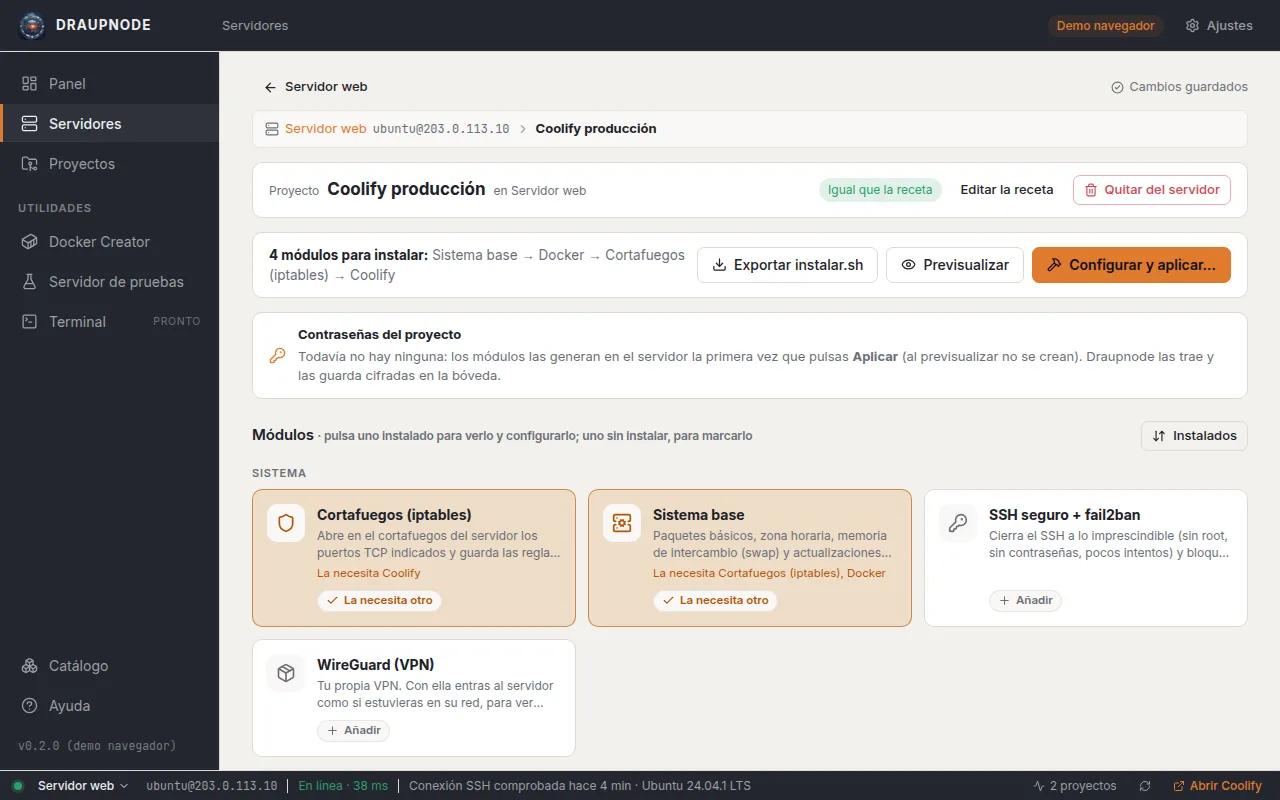
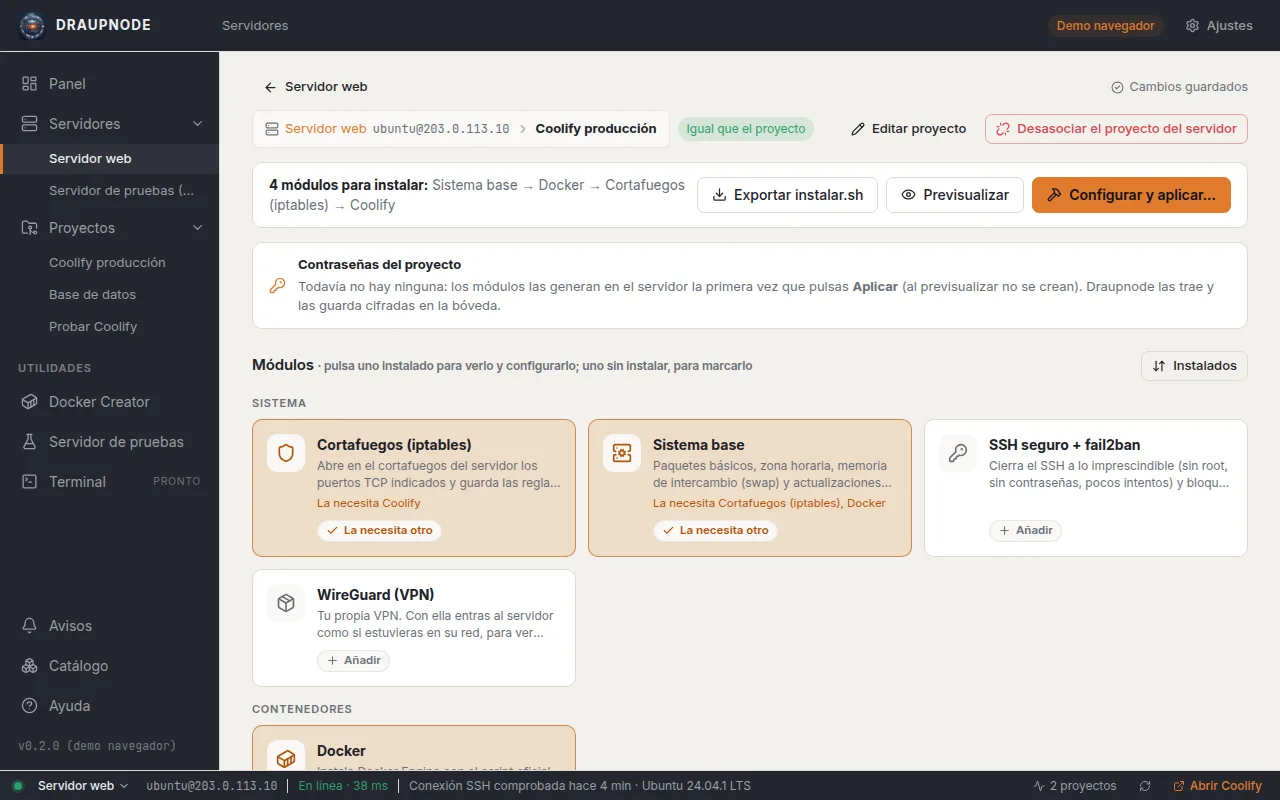
Proyecto en un servidor: cabecera en una fila, «Editar proyecto» y «Desasociar el proyecto del servidor» (0.37.1)

diff --git a/frontend/src/views/ProjectEditor.svelte b/frontend/src/views/ProjectEditor.svelte
@@ -1,6 +1,6 @@
 <script lang="ts">
   import { untrack } from 'svelte'
-  import { ArrowLeft, Save, Eye, Hammer, Download, Trash2, TriangleAlert, LoaderCircle, CircleCheck, CircleX, ChevronRight, Server as ServerIcon, ArrowDownUp } from '@lucide/svelte'
+  import { ArrowLeft, Save, Eye, Hammer, Download, Trash2, TriangleAlert, LoaderCircle, CircleCheck, CircleX, ChevronRight, Server as ServerIcon, ArrowDownUp, Unlink, Pencil } from '@lucide/svelte'
   import RunPanel from '../components/RunPanel.svelte'
   import ProjectSecrets from '../components/ProjectSecrets.svelte'
   import UninstallDialog from '../components/UninstallDialog.svelte'
@@ -335,18 +335,18 @@
 
   async function remove() {
     const ok = await confirmDialog({
-      title: draft.recipeId ? 'Quitar del servidor' : 'Eliminar proyecto',
+      title: draft.recipeId ? 'Desasociar el proyecto del servidor' : 'Eliminar proyecto',
       message: draft.recipeId
-        ? `¿Quitar «${draft.name}» de ${server?.name}? Se borra de Draupnode (con sus registros y sus contraseñas guardadas); lo instalado en el servidor NO se toca (para eso, desinstala antes sus módulos). La receta se conserva.`
+        ? `¿Desasociar «${draft.name}» de ${server?.name}? NO desinstala nada: lo instalado sigue funcionando en el servidor (para quitarlo, desinstala antes sus módulos). Draupnode deja de gestionarlo y borra sus registros y sus contraseñas guardadas. El proyecto se conserva y puedes volver a asociarlo.`
         : `¿Eliminar «${draft.name}»? Solo se borra de Draupnode (y sus registros); el servidor no se toca.`,
-      confirmLabel: draft.recipeId ? 'Quitar' : 'Eliminar', danger: true,
+      confirmLabel: draft.recipeId ? 'Desasociar' : 'Eliminar', danger: true,
     })
     if (!ok) return
     try {
       await api.DeleteProject(draft.id)
       await refreshProjects()
       ui.projectId = null
-      toast(draft.recipeId ? 'Quitado del servidor' : 'Proyecto eliminado')
+      toast(draft.recipeId ? 'Proyecto desasociado del servidor' : 'Proyecto eliminado')
     } catch (e) {
       toast(errorText(e), 'error')
     }
@@ -431,7 +431,9 @@
   {/if}
 </div>
 
-<!-- Siempre a la vista: en qué servidor y proyecto estás. -->
+<!-- Siempre a la vista: en qué servidor y proyecto estás; en la misma fila,
+     si sale de un proyecto (receta), cómo está respecto a él y sus botones. -->
+<div class="head-row">
 <nav class="crumbs" aria-label="Dónde estás">
   <ServerIcon size={14} />
   <button class="crumb" onclick={() => (ui.projectId = null)} title="Ficha del servidor">{server?.name ?? 'Sin servidor'}</button>
@@ -445,6 +447,17 @@
     <strong>{draft.name || 'Proyecto nuevo'}</strong>
   {/if}
 </nav>
+{#if draft.recipeId && !openModule}
+  {#if diffText}
+    <span class="pill warn">Distinto del proyecto: {diffText}</span>
+    <button class="btn sm" onclick={pushToRecipe} disabled={running || dirty} title="Lo de este servidor pasa al proyecto (y a los demás servidores que lo usan)">Llevar al proyecto</button>
+    <button class="btn sm" onclick={resetToRecipe} disabled={running || dirty} title="Deshace lo propio de este servidor (no desinstala nada)">Volver al proyecto</button>
+  {:else}<span class="pill ok">Igual que el proyecto</span>{/if}
+  <div class="spacer"></div>
+  <button class="btn sm ghost" onclick={() => openRecipe(draft.recipeId!)} title="El proyecto (la receta) para todos sus servidores"><Pencil size={14} /> Editar proyecto</button>
+  <button class="btn sm danger" onclick={remove} disabled={running} title="Lo quita de Draupnode; lo instalado en el servidor no se toca"><Unlink size={14} /> Desasociar el proyecto del servidor</button>
+{/if}
+</div>
 
 {#if run}
   <RunPanel {run} onclose={closeRun} />
@@ -456,24 +469,7 @@
     onapply={() => (pending.length ? openWizard() : start(false))}
     onremove={() => removeFromProject(openModule.id)} onreadd={() => readd(openModule.id)} onuninstall={() => uninstallOne(openModule.id)} onreload={reloadDraft} />
 {:else}
-  {#if draft.recipeId}
-    <div class="recipe-row card">
-      <div class="rr-text">
-        <span class="muted small">Proyecto</span>
-        <strong>{recipe?.name ?? draft.name}</strong>
-        <span class="muted small">en {server?.name}</span>
-      </div>
-      <div class="rr-diff">
-        {#if diffText}
-          <span class="pill warn">Distinto de la receta: {diffText}</span>
-          <button class="btn sm" onclick={pushToRecipe} disabled={running || dirty} title="Lo de este servidor pasa a la receta (y a los demás servidores que la usan)">Llevar a la receta</button>
-          <button class="btn sm" onclick={resetToRecipe} disabled={running || dirty} title="Deshace lo propio de este servidor">Volver a la receta</button>
-        {:else}<span class="pill ok">Igual que la receta</span>{/if}
-        <button class="btn sm ghost" onclick={() => openRecipe(draft.recipeId!)}>Editar la receta</button>
-        <button class="btn sm danger" onclick={remove} disabled={running} title="Lo quita de Draupnode; lo instalado en el servidor no se toca"><Trash2 size={14} /> Quitar del servidor</button>
-      </div>
-    </div>
-  {:else}
+  {#if !draft.recipeId}
   <div class="title-row">
     <input class="name" bind:value={draft.name} placeholder="Nombre del proyecto (p. ej. Servidor web)" disabled={running} />
     <label class="field srv">
@@ -590,20 +586,18 @@
   .save-st { display: inline-flex; align-items: center; gap: 6px; font-size: 12.5px; color: var(--muted); }
   .save-st .bad { color: var(--danger); }
   .warn { display: inline-flex; gap: 7px; align-items: center; color: var(--warning); }
-  .crumbs { display: flex; align-items: center; gap: 6px; flex-wrap: wrap; font-size: 13px; color: var(--muted); margin-bottom: 14px; padding: 8px 12px; border-radius: var(--radius-sm); background: var(--panel-2); border: 1px solid var(--border-soft); }
+  .head-row { display: flex; align-items: center; gap: 8px; flex-wrap: wrap; margin-bottom: 14px; }
+  .head-row .spacer { flex: 1; }
+  .head-row .pill { display: inline-flex; padding: 3px 9px; border-radius: 999px; font-size: 12px; }
+  .head-row .pill.ok { background: var(--success-soft); color: var(--success); }
+  .head-row .pill.warn { background: color-mix(in srgb, var(--warning) 15%, transparent); color: var(--warning); }
+  .crumbs { display: flex; align-items: center; gap: 6px; flex-wrap: wrap; font-size: 13px; color: var(--muted); padding: 8px 12px; border-radius: var(--radius-sm); background: var(--panel-2); border: 1px solid var(--border-soft); }
   .crumbs strong { color: var(--text); }
   .crumb { background: none; border: 0; padding: 0; font: inherit; color: var(--accent); cursor: pointer; }
   .crumb:hover { text-decoration: underline; }
   .crumbs :global(.sep) { opacity: .6; }
   .mono { font-family: var(--mono); }
   .small { font-size: 12px; }
-  .recipe-row { display: flex; gap: 14px; align-items: center; justify-content: space-between; flex-wrap: wrap; padding: 12px 16px; margin-bottom: 14px; }
-  .rr-text { display: flex; gap: 8px; align-items: baseline; flex-wrap: wrap; }
-  .rr-text strong { font-size: 17px; }
-  .rr-diff { display: flex; gap: 8px; align-items: center; flex-wrap: wrap; }
-  .rr-diff .pill { display: inline-flex; padding: 3px 9px; border-radius: 999px; font-size: 12px; }
-  .rr-diff .pill.ok { background: var(--success-soft); color: var(--success); }
-  .rr-diff .pill.warn { background: color-mix(in srgb, var(--warning) 15%, transparent); color: var(--warning); }
   .small { font-size: 12px; }
   .title-row { display: grid; grid-template-columns: 1fr 340px auto; gap: 16px; align-items: end; margin-bottom: 14px; }
   .name { font-size: 22px; font-weight: 600; background: none; border: 0; border-bottom: 1px solid transparent; padding: 4px 0; outline: none; color: var(--text); }

diff --git a/frontend/src/lib/help.ts b/frontend/src/lib/help.ts
@@ -53,7 +53,7 @@ export const HELP: HelpSection[] = [
     steps: [
       { title: 'Lista', text: 'Cada tarjeta muestra la conexión (usuario@IP), cómo se entra (clave o contraseña), el resultado de la última prueba y los datos del servidor. Pulsa la tarjeta para abrir su ficha.', img: 'servidores' },
       { title: 'Ficha del servidor', text: 'Es la pieza principal. Al abrirla se conecta por SSH (solo lee) y enseña: CPU, memoria, discos y tiempo encendido; avisos de contenedores caídos o servicios con fallos; el proyecto que tiene (o «Asociar» uno de tus proyectos); las apps con sus direcciones (las de Draupnode con «Abrir», las de Coolify y los sitios de nginx/Caddy aunque no los instalara Draupnode); las bases de datos y lo que pesa cada una; los contenedores con su uso y su registro; los puertos abiertos; los registros del sistema y las contraseñas generadas. «Actualizar» vuelve a leerlo; «Editar conexión» cambia sus datos.', img: 'servidor' },
-      { title: 'El proyecto de un servidor', text: 'Desde la ficha, «Abrir» lleva a la pantalla de siempre: módulos, previsualizar, aplicar, copias… Arriba dice de qué proyecto (receta) sale y si tiene algo distinto: «Llevar a la receta» pasa lo de este servidor al proyecto (y a los demás servidores que lo usan); «Volver a la receta» lo deshace. «Quitar del servidor» lo quita de Draupnode sin tocar lo instalado.', img: 'despliegue' },
+      { title: 'El proyecto de un servidor', text: 'Desde la ficha, «Abrir» lleva a la pantalla de siempre: módulos, previsualizar, aplicar, copias… Arriba, en una fila: el servidor, el proyecto y si tiene algo distinto del proyecto. «Llevar al proyecto» pasa lo de este servidor al proyecto (y a los demás servidores que lo usan); «Volver al proyecto» lo deshace. «Editar proyecto» abre el proyecto para todos sus servidores. «Desasociar el proyecto del servidor» lo quita de Draupnode sin desinstalar nada.', img: 'despliegue' },
       { title: 'Añadir servidor', text: 'Nombre, IP o dominio, puerto (22 normalmente) y usuario. Elige la clave de la lista (salen las de ~/.ssh) o escribe una contraseña. Si la clave tiene contraseña, marca «tiene contraseña» y decide si guardarla.', img: 'servidor-nuevo' },
       { title: 'Probar conexión', text: 'Conecta, comprueba sudo y recoge datos (sistema, memoria, disco). La primera vez pide confirmar la huella del servidor; compárala con la que te da tu proveedor.' },
       { title: 'Editar y eliminar', text: 'El lápiz cambia los datos; la papelera lo quita de Draupnode (el servidor en sí no se toca). No se puede eliminar un servidor que use algún proyecto.' },

diff --git a/app.go b/app.go
@@ -21,7 +21,7 @@ import (
 )
 
 // Version de la aplicación.
-const Version = "0.37.0"
+const Version = "0.37.1"
 
 // Prefijos que la interfaz reconoce en los errores para abrir el diálogo
 // de la bóveda (crear o desbloquear) y reintentar.

diff --git a/docs/HISTORIAL.md b/docs/HISTORIAL.md
@@ -484,3 +484,11 @@ Pasos 2, 3 y 4 del rediseño pedido (PLAN.md): «los proyectos son las recetas y
 - **Menú desplegable**: «Servidores» y «Proyectos» tienen una flecha que despliega la lista de servidores y de
   recetas para entrar directo en cada uno. Lo desplegado se recuerda en este equipo; el menú hace scroll si hay muchos.
 - Capturas de la demo: `avisos` y `avisos-campana`.
+
+## 2026-11-21 · 0.37.1 · Proyecto en un servidor: una sola fila y nombres más claros
+
+- La cabecera del proyecto dentro de un servidor va en una sola fila: dónde estás (servidor › proyecto), si es
+  igual o distinto del proyecto y los botones. Se quita la tarjeta aparte «Proyecto … en …», que repetía lo mismo.
+- Nombres: «Editar la receta» → **«Editar proyecto»**; «Quitar del servidor» → **«Desasociar el proyecto del
+  servidor»** (con su diálogo: deja claro que NO desinstala nada); «Llevar/Volver a la receta» → «Llevar/Volver al
+  proyecto»; «Distinto/Igual que la receta» → «… del/que el proyecto».
